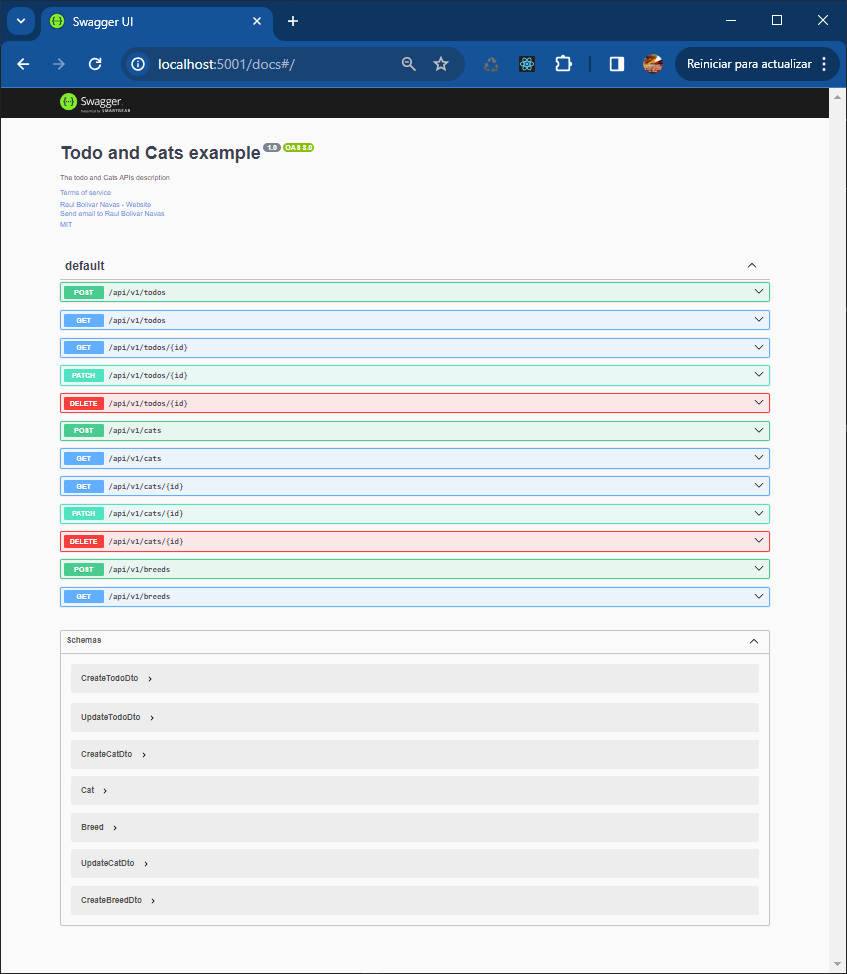
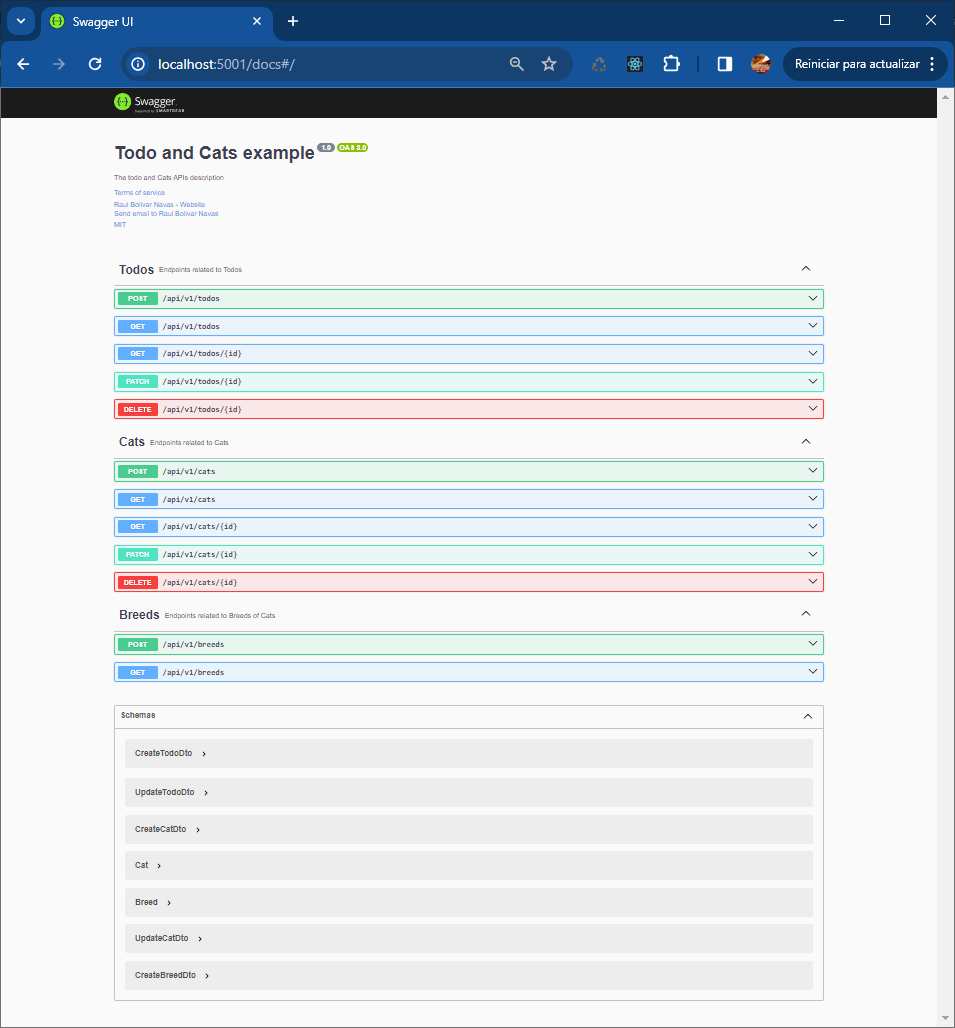
First Commit

diff --git a/src/main.ts b/src/main.ts
@@ -1,34 +1,38 @@
-import { NestFactory } from '@nestjs/core';
-import { AppModule } from './app.module';
-import { ValidationPipe } from '@nestjs/common';
-import { DocumentBuilder, SwaggerModule } from '@nestjs/swagger';
+import {NestFactory} from '@nestjs/core';
+import {AppModule} from './app.module';
+import {ValidationPipe} from '@nestjs/common';
+import {DocumentBuilder, SwaggerModule} from '@nestjs/swagger';
 
 async function bootstrap() {
-  const app = await NestFactory.create(AppModule);//, { cors: true });
+    const app = await NestFactory.create(AppModule);//, { cors: true });
 
-  app.enableCors();
+    app.enableCors();
 
-  app.setGlobalPrefix("api/v1");
+    app.setGlobalPrefix("api/v1");
 
-  app.useGlobalPipes(
-    new ValidationPipe({
-      whitelist: true,
-      forbidNonWhitelisted: true,
-      transform: true,
-    })
-  );
+    app.useGlobalPipes(
+        new ValidationPipe({
+            whitelist: true,
+            forbidNonWhitelisted: true,
+            transform: true,
+        })
+    );
 
-  const config = new DocumentBuilder()
-    .setTitle("Todo and Cats example")
-    .setDescription("The todo and Cats APIs description")
-    .setVersion("1.0")
-    .setContact("Raul Bolivar Navas", "https://rasysbox.com", "rasysbox@hotmail.com")
-    .setLicense("MIT", "https://opensource.org/licenses/MIT")
-    .setTermsOfService("https://www.linkedin.com/in/rasysbox")
-    .build();
-  const document = SwaggerModule.createDocument(app, config);
-  SwaggerModule.setup("docs", app, document);
+    const config = new DocumentBuilder()
+        .setTitle("Todo and Cats example")
+        .setDescription("The todo and Cats APIs description")
+        .setVersion("1.0")
+        .setContact("Raul Bolivar Navas", "https://rasysbox.com", "rasysbox@hotmail.com")
+        .setLicense("MIT", "https://opensource.org/licenses/MIT")
+        .setTermsOfService("https://www.linkedin.com/in/rasysbox")
+        .addTag('Todos', 'Endpoints related to Todos')
+        .addTag('Cats', 'Endpoints related to Cats')
+        .addTag('Breeds', 'Endpoints related to Breeds of Cats')
+        .build();
+    const document = SwaggerModule.createDocument(app, config);
+    SwaggerModule.setup("docs", app, document);
 
-  await app.listen(5001);
+    await app.listen(5001);
 }
+
 bootstrap();

diff --git a/src/breeds/breeds.controller.ts b/src/breeds/breeds.controller.ts
@@ -2,7 +2,9 @@ import { Controller, Get, Post, Body, Patch, Param, Delete } from '@nestjs/commo
 import { BreedsService } from './breeds.service';
 import { CreateBreedDto } from './dto/create-breed.dto';
 import { UpdateBreedDto } from './dto/update-breed.dto';
+import {ApiTags} from "@nestjs/swagger";
 
+@ApiTags('Breeds')
 @Controller('breeds')
 export class BreedsController {
   constructor(private readonly breedsService: BreedsService) {}

diff --git a/src/cats/cats.controller.ts b/src/cats/cats.controller.ts
@@ -2,7 +2,9 @@ import { Controller, Get, Post, Body, Patch, Param, Delete } from '@nestjs/commo
 import { CatsService } from './cats.service';
 import { CreateCatDto } from './dto/create-cat.dto';
 import { UpdateCatDto } from './dto/update-cat.dto';
+import {ApiTags} from "@nestjs/swagger";
 
+@ApiTags('Cats')
 @Controller('cats')
 export class CatsController {
   constructor(private readonly catsService: CatsService) {}

diff --git a/src/todos/todos.controller.ts b/src/todos/todos.controller.ts
@@ -10,7 +10,9 @@ import {
 import { TodosService } from './todos.service';
 import { CreateTodoDto } from './dto/create-todo.dto';
 import { UpdateTodoDto } from './dto/update-todo.dto';
+import {ApiTags} from "@nestjs/swagger";
 
+@ApiTags('Todos')
 @Controller('todos')
 export class TodosController {
   constructor(private readonly todosService: TodosService) {
